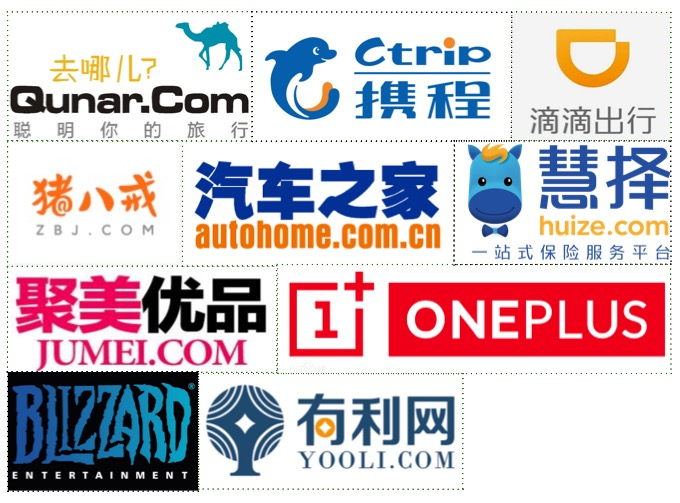
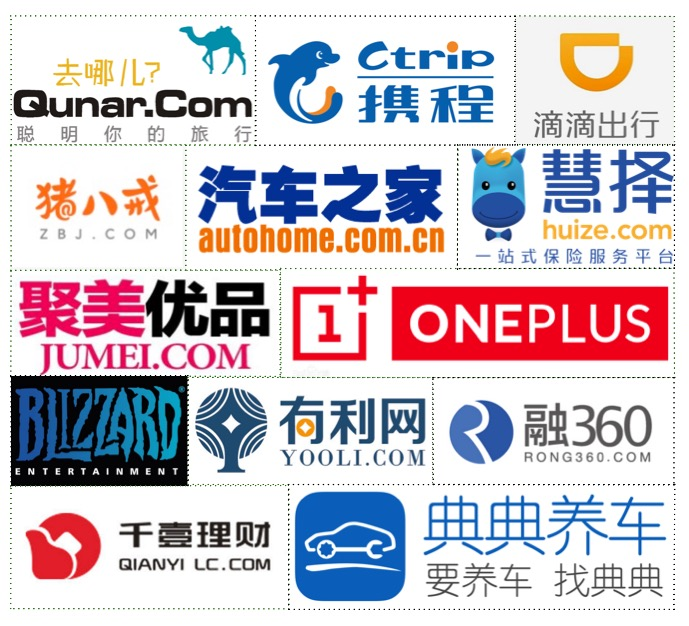
加入新的使用企业

diff --git a/index.html b/index.html
@@ -290,5 +290,5 @@ Inception讨论QQ群：185803996</p>
 
 <!--
 MkDocs version : 0.15.3
-Build Date UTC : 2016-09-01 08:57:07.200597
+Build Date UTC : 2016-10-25 02:44:17.964269
 -->
